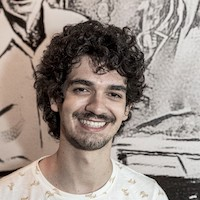
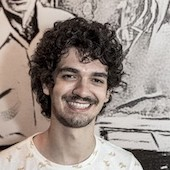
Sponsors: 1-line description + sponsor links (#78)
* add carlo of brazil

* carlo photo path; timezone schedule size

* resize timezone schedule

* fix typo in width of timezone schedule

* add description for sponsors + links

* resize carlo photo

* resize CL photo

* fix sponsor links

* mv labs logo up for spacing

diff --git a/2022-07_sprint/sprint_parties/sponsors.md b/2022-07_sprint/sprint_parties/sponsors.md
@@ -1,30 +1,31 @@
 # Data Umbrella Sponsors
 ::::{grid} 1 1 2 2
 :::{grid-item-card}
-:link: TODO
+:link: https://opensource.google/
 :shadow: none
 :class-card: border-0
 
 ![Google](../../_static/sponsors/google_color.png)
 
-TODO: Add short description: Google
+We bring all the value of open source to Google and all the resources of Google to open source.
 :::
 :::{grid-item-card}
-:link: TODO
-:shadow: none
-:class-card: border-0
-
-![CZI](../../_static/sponsors/czi-logo.jpg)
-
-TODO: Add short description: CZI
-:::
-:::{grid-item-card}
-:link: TODO
+:link: https://www.pymc-labs.io/
 :shadow: none
 :class-card: border-0
 
 ![PyMC Labs](../../_static/sponsors/4-pymc-labs-transp-black.png)
 
-TODO: Add short description: PyMC Labs
+The Bayesian Consultancy. We bring Bayesian methods into wide practice. 
+:::
+:::{grid-item-card}
+:link: https://chanzuckerberg.com/science/programs-resources/open-science/communitiesofpractice/data-umbrella/
+:shadow: none
+:class-card: border-0
+
+![CZI](../../_static/sponsors/czi-logo.jpg)
+
+We help solve some of society’s toughest challenges — from eradicating disease and improving education, to addressing the needs of our local communities. Our mission is to build a more inclusive, just, and healthy future for everyone.
 :::
 ::::
+
